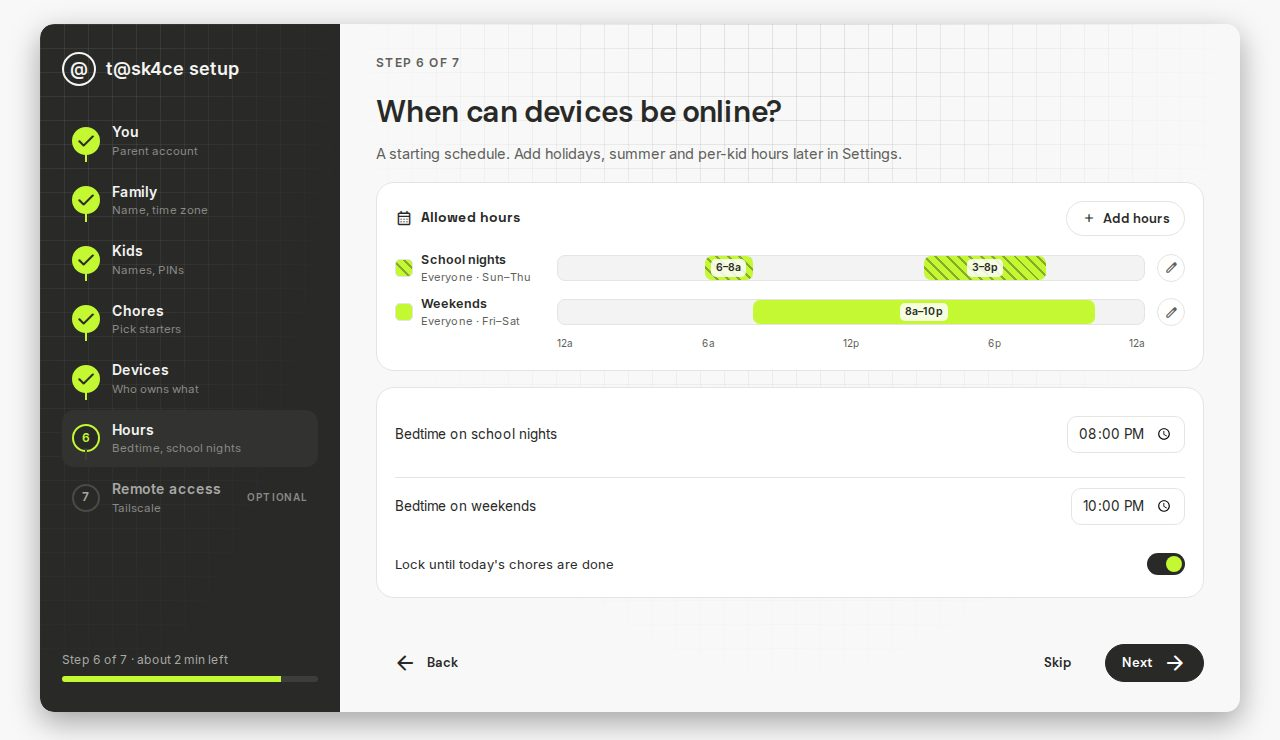
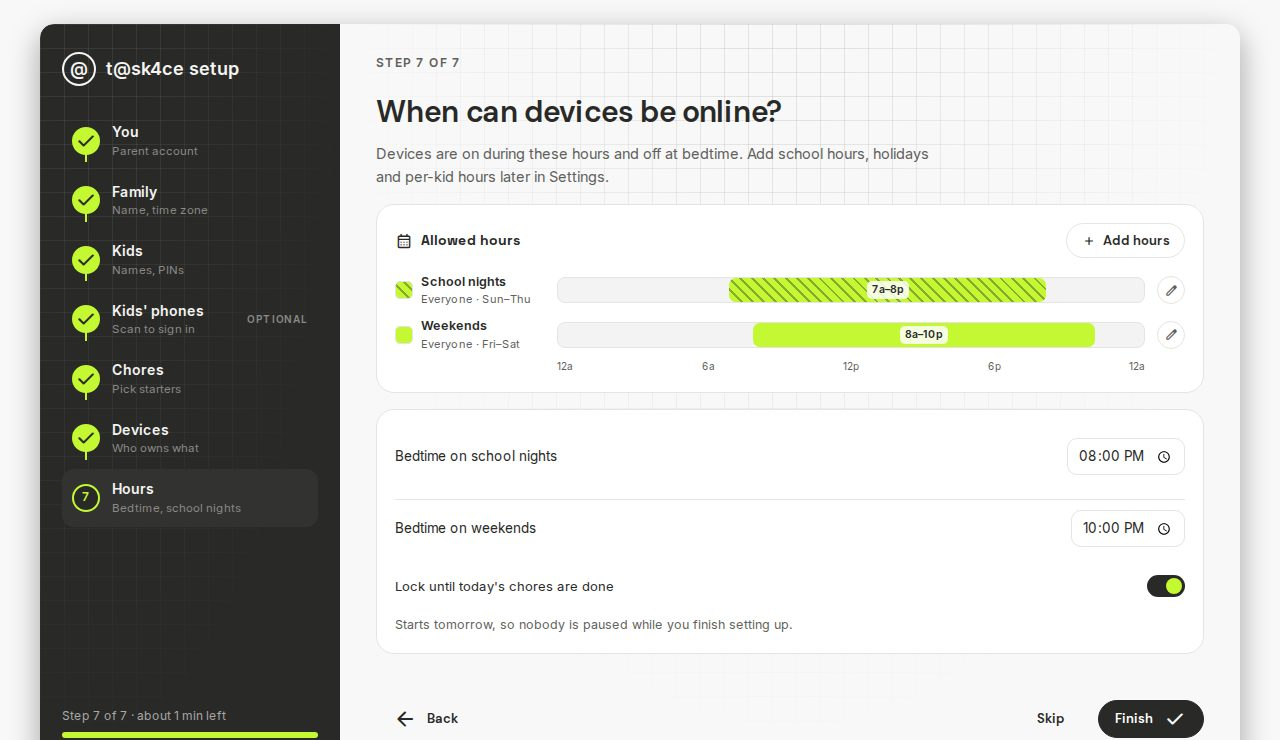
docs: turnkey defaults; 2.4.0
Claude-Session: https://claude.ai/code/session_011K7jrVbDK9XkJbLGVTb23M

diff --git a/site/index.html b/site/index.html
@@ -135,7 +135,7 @@
       <section id="setup">
         <div class="section-intro">
           <h2>Set it up in 20 minutes</h2>
-          <p>Install it, then a short eight-step setup.</p>
+          <p>Install it, then a short seven-step setup.</p>
         </div>
         <ol class="steps f-card">
           <li>
@@ -166,8 +166,8 @@
           <li>
             <span class="num" aria-hidden="true">4</span>
             <div>
-              <h3>Answer eight short questions</h3>
-              <p>You, Family, Kids, Kids' phones, Chores, Devices, Hours and Remote access (optional). About 7 minutes. <a href="guide/03-first-setup.html">Setup guide&nbsp;→</a></p>
+              <h3>Answer seven short questions</h3>
+              <p>You, Family, Kids, Kids' phones, Chores, Devices, Hours. Good hours and a few starter chores are already filled in. About 7 minutes. <a href="guide/03-first-setup.html">Setup guide&nbsp;→</a></p>
             </div>
           </li>
           <li>
@@ -214,7 +214,7 @@
           </details>
           <details class="faq-item">
             <summary>Can I use it when I'm away from home?</summary>
-            <p>Yes. With the free Tailscale app you can open t@sk4ce from anywhere and approve chores. It's the last, optional step of setup. <a href="guide/remote-access.html">Remote access&nbsp;→</a> Pausing only works on your home Wi-Fi: a phone on mobile data isn't covered.</p>
+            <p>Yes. With the free Tailscale app you can open t@sk4ce from anywhere and approve chores. It's an optional tip on the last screen of setup. <a href="guide/remote-access.html">Remote access&nbsp;→</a> Pausing only works on your home Wi-Fi: a phone on mobile data isn't covered.</p>
           </details>
           <details class="faq-item">
             <summary>What if a kid finds a workaround?</summary>

diff --git a/backend/tests/test_health.py b/backend/tests/test_health.py
@@ -22,7 +22,7 @@ class TestHealthEndpoints:
         assert "status" in data
         assert data["status"] == "healthy"
         assert "timestamp" in data
-        assert data["version"] == "2.3.0"
+        assert data["version"] == "2.4.0"
 
     def test_health_services(self, client):
         """Test the health endpoint includes service status."""

diff --git a/backend/app/__init__.py b/backend/app/__init__.py
@@ -5,6 +5,6 @@ This package contains the FastAPI backend application for the t@sk4ce
 task management system.
 """
 
-__version__ = "2.3.0"
+__version__ = "2.4.0"
 __author__ = "t@sk4ce Team"
 __description__ = "A comprehensive task management system for families"

diff --git a/docs/guide/04-everyday-use.md b/docs/guide/04-everyday-use.md
@@ -39,7 +39,7 @@ When more than one thing is waiting, **Approve all** approves them in one go.
 
 You should see: for Approve, the item disappears and the kid gets their points (and the internet, if that was their last chore). For Send back, the kid sees your note and does the chore again.
 
-Points come to the kid when you approve, not before. If a kid finishes early, they can earn a small bonus. You choose the limit in **Settings → Family**.
+Points come to the kid when you approve, not before. If a kid finishes early, they can earn a small bonus. You choose the limit in **Settings → Family**, under **Points rules**.
 
 ### Answer a screen time or reward request
 
@@ -49,7 +49,7 @@ You should see: the item leaves the list. The kid is told what you decided.
 
 ## The bell
 
-The bell shows what happened: chores to approve, kid notes, requests, new devices, badges and level-ups, and security alerts such as a device that "got around the lock", "may be a different device", a "tried a VPN" workaround, or someone guessing a parent's password. Use the **All**, **Needs you** and **Alerts** tabs to filter. You can approve or send back right from the bell. Tap an item to go straight to it. **Mark all read** clears the count.
+The bell shows what happened: chores to approve, kid notes, requests, badges and level-ups, and security alerts such as a device that "got around the lock", "may be a different device", a "tried a VPN" workaround, or someone guessing a parent's password. Use the **All**, **Needs you** and **Alerts** tabs to filter. You can approve or send back right from the bell. Tap an item to go straight to it. **Mark all read** clears the count.
 
 On a phone the bell opens as a sheet from the bottom of the screen.
 
@@ -97,7 +97,7 @@ Open **Kids & chores → Rewards**. It has four parts:
 
 - **Requests**: what kids are asking for.
 - **Catalogue**: tap **New reward** for things kids can save up for, with a price in points and an icon. Turn off **Needs approval** if a kid can just take it (the points come off right away and you get a ping). Turn off **Kids can see it** to hide it for now.
-- **Screen time**: lets kids spend points on extra internet time. It is off until you turn on **Kids can buy extra minutes**. The price starts at 20 points for 15 minutes. You can also set a **Max per day**, **Approve automatically** and **Only during allowed hours**. Bought minutes never work during off hours like bedtime.
+- **Screen time**: lets kids spend points on extra internet time. It is on for new families (**Kids can buy extra minutes**), and every purchase still needs your OK. The price starts at 20 points for 15 minutes. Turn the switch off and the price, **Max per day**, **Approve automatically** and **Only during allowed hours** settings are hidden until you turn it on again; what you saved is kept. Bought minutes never work during off hours like bedtime.
 - **History**: the last 30 days.
 
 A kid sees a progress bar toward each reward and can ask when they have enough.
@@ -124,7 +124,7 @@ Tap a device to open it:
 - **Lock now** pauses it until you change it. **Unlock 30 min** lets it online for half an hour. **Back to schedule** cancels either one.
 - **Test block** checks that pausing works for this device.
 - **Guest (never blocked)** keeps it online always.
-- **Always allowed (never lock)** skips hours and the chore check for this one device, like a kid's laptop for school. A manual lock still works.
+- **Always allowed (never lock)** skips hours and the chore check for this one device, like a kid's laptop for school. A manual lock still works. Guest devices never show this switch, because guests are never locked.
 - **Network** and **Activity** show its addresses, when it was online and any alerts.
 
 The **Groups** tab puts several devices together, like "Game consoles", so you can lock them all at once.
@@ -179,7 +179,7 @@ Use **Chores**, **Notes** and **Family** at the top to filter. Quick replies lik
 
 ### GIFs (off by default)
 
-You can allow GIFs in chat. It's off until you turn it on.
+You can allow GIFs in chat. It's off until you turn it on, and the **GIPHY key** and **GIF rating** settings stay hidden until then.
 
 1. Make a free key at https://developers.giphy.com/ (a GIPHY account is needed).
 2. In **Settings → GIFs**, turn on **Allow GIFs in chat**.
@@ -198,11 +198,11 @@ t@sk4ce can send pings to the apps your family already uses, like a Signal group
 
 1. Open **Settings → Notifications** and tap **Add a place**.
 2. Give it a **Name** and paste an **Apprise address** (the Apprise website lists the format for each app).
-3. Choose which events it gets, then tap **Test**.
+3. Choose which events it gets, then tap **Test**. A new place starts with chores to approve, kid notes, reward requests, tricks, a box that goes offline and the daily summary. "New device" alerts are off unless you turn them on (and nothing rings the bell for new devices while you are still in setup).
 
 You should see: a test message in that app.
 
-During **Quiet hours** other pings wait: chores to approve, notes, requests and new devices are sent together when quiet hours end. Security alerts (a device getting around the lock, a different-looking device, password guessing, the box going offline) still send unless you turn off **Security alerts still send**. Set **App address** to the address you open t@sk4ce with, so the link in each ping works.
+During **Quiet hours** other pings wait: chores to approve, notes, requests and new devices are sent together when quiet hours end. Security alerts (a device getting around the lock, a different-looking device, password guessing, the box going offline) still send unless you turn off **Security alerts still send**. That switch only shows once quiet hours are on. Pings link back to your box by itself; if the link is wrong, open **Advanced** and set **App address** to the address you open t@sk4ce with.
 
 These pings leave your home: they go to the service you chose.
 
@@ -210,7 +210,7 @@ These pings leave your home: they go to the service you chose.
 
 **Settings → Notifications** also shows a code for each kid. Install the free **ntfy** app on the kid's phone and scan the code with the phone's camera. Alerts then arrive even when t@sk4ce is closed: a chore due soon, approved or sent back, points taken, new chores, messages, a badge or level-up, and a warning in the 10 minutes before the internet goes off. **New code** makes a fresh code; the old one stops working. A kid's page also has a **Phones and tablets** panel with **Add a phone** and **Remove**.
 
-iPhones get these alerts late unless you turn on **Instant alerts on iPhones**. That asks the public ntfy.sh service to wake the phone. Only a wake-up goes out; the alert text stays in your home.
+iPhones get these alerts late unless you turn on **Instant alerts on iPhones**. That asks the public ntfy.sh service to wake the phone. Only a wake-up goes out; the alert text stays in your home. If a kid's phone was set up with a code instead, it gets only a short generic line, like "You have a new chore", through the public relay (see below). The ntfy app section in the pane is folded away as **Use the ntfy app instead**.
 
 **Who can read them.** The box's ntfy service (port 2586) has no password, by design. Anyone on your home Wi‑Fi who knows a kid's topic name can read that kid's alerts. The topic is a long random name that works like a password, so keep it secret: only share it by scanning the code. Alerts say things like "Dishes is due soon", never passwords.
 

diff --git a/docs/superpowers/specs/2026-11-06-turnkey-defaults-design.md b/docs/superpowers/specs/2026-11-06-turnkey-defaults-design.md
@@ -107,3 +107,15 @@ Vis = visibility to a parent who never touched the item: **Shown**, **Hidden** (
 - **Integrations** (#40): opt-in already. Folding "Home network keys" when there are none is optional polish.
 - **Accent and theme** (#39): cosmetic and per-device. Simplifying the contrast-ratio copy is optional.
 - **Migration hygiene:** `new_devices_blocked` and `points_unlock_early` have no server_default (69d343fc2820:30-31). This is harmless because rows are created through the ORM; fix only if raw inserts appear.
+
+## As built (2.4.0)
+
+All 12 items shipped as specified, with these notes:
+
+- Wizard is 7 steps (`LAST_STEP` 7; PUT step 8 now returns 422). Remote access is a tip on Finish with a "How to set it up" link. Migration `w6f7a8b9c0d1` finishes families stored at old step 8; the client also self-heals by sending `step: null`.
+- Default hours: 07:00-20:00 Sun-Thu, 08:00-22:00 Fri-Sat, no school-hours block. Chores and the chore lock start tomorrow (no runs made while setup is open, including on edit); hours start now.
+- Screen time on for new families (`points_unlock_early` set on first claim); `screen_auto_approve` stays off.
+- Default notification events: chore_ok, kid_note, reward_request, resisting, box_offline, workaround, summary. No `new_device` inbox row during setup. The summary time is a constant (19:00), not a setting.
+- Hidden until on: screen time fields, GIF rating/key, "Security alerts still send" (needs quiet hours). App address is under Advanced; early bonus cap under "Points rules"; guests do not show "Always allowed". Stored values are never cleared.
+- Kid phone alert copy: code-enrolled phones get only a short generic line (for example "You have a new chore") through a public relay (ntfy.sh by default). The pane's switch help says "Off skips this wake-up" (not "sends nothing outside"). The "See the guide" line links to "Alerts on a kid's phone".
+- Docs: guide 03/04, READMEs, Pages text and `setup-hours.jpg` updated.

diff --git a/docs/guide/img/SHOTS.md b/docs/guide/img/SHOTS.md
@@ -11,8 +11,8 @@ Taken with Playwright from a demo family (kids Bobby and Susan), read-only: ever
 | `needs-you.jpg` | Parent **Today**, desktop, **Needs you** tab. The demo had nothing waiting, so four sample requests were injected into the `/today` response. |
 | `setup-account.jpg` | Setup wizard step 1 "Make your parent account", with the step list visible. |
 | `setup-family.jpg` | Setup wizard step 2 "Your family" (step 1 filled in locally; nothing is sent before step 2's Next). |
-| `setup-hours.jpg` | Setup wizard step 6 "When can devices be online?" with the starting schedule (resumed at step 6 by faking `/setup/step`). |
-| `setup-devices.jpg` | Setup wizard step 5 "Whose devices are these?", devices assigned to kid chips and Guest. |
+| `setup-hours.jpg` | Setup wizard step 7 "When can devices be online?" with the new starting schedule (07:00–20:00 Sun–Thu, 08:00–22:00 Fri–Sat). Retaken 2026-11-06 for 2.4.0; 1280×900 capture cropped to 1280×740 from the top. |
+| `setup-devices.jpg` | Setup wizard step 6 "Whose devices are these?", devices assigned to kid chips and Guest. |
 | `devices.jpg` | **Devices** page with one device open (owners, right now, lock and test block buttons). |
 | `chat.jpg` | **Chat** on a chore thread with a kid note ("Need help"). |
 | `kid-today.jpg` | Kid page (phone): internet paused, chore cards with points and due chips. |

diff --git a/README.md b/README.md
@@ -73,7 +73,7 @@ Or here's the short version:
    curl -fsSL https://jmo-labs.github.io/tskfrce/install.sh | sh
    ```
 
-3. [Do the first-time setup](https://jmo-labs.github.io/tskfrce/guide/03-first-setup.html): eight short steps for your family, kids, chores, devices and hours.
+3. [Do the first-time setup](https://jmo-labs.github.io/tskfrce/guide/03-first-setup.html): seven short steps for your family, kids, chores, devices and hours.
 4. [Learn the everyday routine](https://jmo-labs.github.io/tskfrce/guide/04-everyday-use.html): approve chores, answer requests, give rewards.
 5. [Show your kids](https://jmo-labs.github.io/tskfrce/guide/05-for-kids.html): a one-page guide you can hand over.
 

diff --git a/docs/guide/README.md b/docs/guide/README.md
@@ -6,7 +6,7 @@ Read the pages in order the first time. It takes about 20 minutes.
 
 1. [What you need](01-what-you-need.md): the small computer and router.
 2. [Install](02-install.md): put t@sk4ce on the small computer.
-3. [First-time setup](03-first-setup.md): an eight-step wizard for your family, kids, chores, devices and hours.
+3. [First-time setup](03-first-setup.md): a seven-step wizard for your family, kids, chores, devices and hours.
 4. [Everyday use](04-everyday-use.md): approvals, chores, rewards, devices, hours, chat and notifications.
 5. [For kids](05-for-kids.md): one page to show your kids.
 6. [Troubleshooting](06-troubleshooting.md): when something looks wrong.

diff --git a/docs/guide/03-first-setup.md b/docs/guide/03-first-setup.md
@@ -69,7 +69,7 @@ The page asks "When can devices be online?" It starts you with two schedules for
 - **School nights** (Sunday to Thursday): 7 am to 8 pm.
 - **Weekends** (Friday and Saturday): 8 am to 10 pm.
 
-Change the bedtimes if you like. Tap the pencil on a row to change it, or **Add hours** for more.
+There is no separate school-hours block, so devices are not cut off during the school day. Change the bedtimes if you like. Tap the pencil on a row to change it, or **Add hours** for more.
 
 ![Step 7: the starting schedule on a timeline](img/setup-hours.jpg)
 
